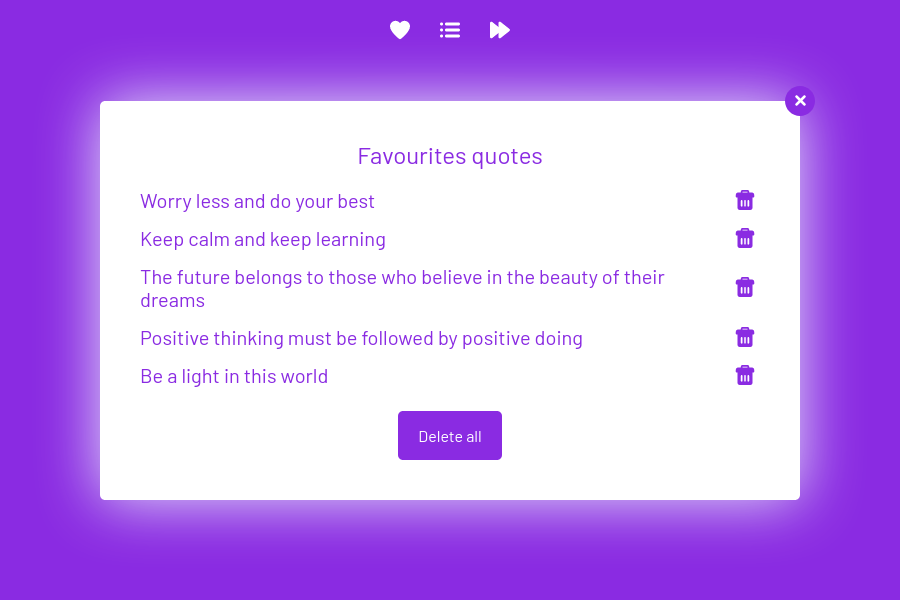
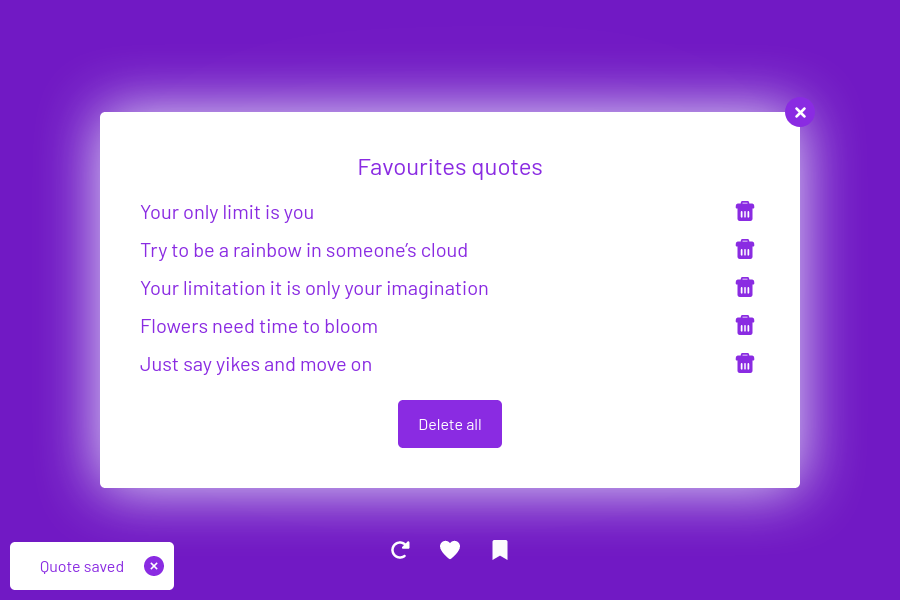
Updated README

diff --git a/README.md b/README.md
@@ -1,22 +1,25 @@
 # Quote generator
 ### Overview
-Tiny quote generator built with the HTML, CSS (SCSS) and pure JavaScript.
+If you're looking for positive quotes and motivating sayings to boost your mood, this tiny quote generator will help you look on the bright side even when your day starts out on the totally wrong foot 🙃
+
+Generator built with the HTML, CSS (SCSS) and pure JavaScript.
+
+Hope you like it and have a good day! ✌
 
 ## Features
 * Generate random quote and random background color for every quote
 * Add quote to favourites
-* Show favourites quotes
+* Show saved quotes
 * Remove quote from favourites
-* Delete all selected quotes from favourites
-* Show notifications: quote added, quote removed from favourites, etc
+* Delete all saved quotes
+* Showing notifications
 
-![alt text](https://github.com/dtsiki/quote-generator/blob/master/previews/quote-generator-main-screen.png "Quote generator main screen")
+![alt text](https://github.com/dtsiki/quote-generator/blob/master/previews/quote-generator-main-screen.png "Random quote")
 
-![alt text](https://github.com/dtsiki/quote-generator/blob/master/previews/quote-generator-main-screen-4.png "Quote generator main screen another quote")
+![alt text](https://github.com/dtsiki/quote-generator/blob/master/previews/quote-generator-notification.png "Notification")
 
-![alt text](https://github.com/dtsiki/quote-generator/blob/master/previews/quote-generator-main-screen-3.png "Quote generator main screen and another one quote")
 
-![alt text](https://github.com/dtsiki/quote-generator/blob/master/previews/quote-generator-modal.png "Quote generator favourites quotes pop up")
+![alt text](https://github.com/dtsiki/quote-generator/blob/master/previews/quote-generator-modal.png "Pop up with favs")
 
 ### Installation
 Start by cloning the repository:
